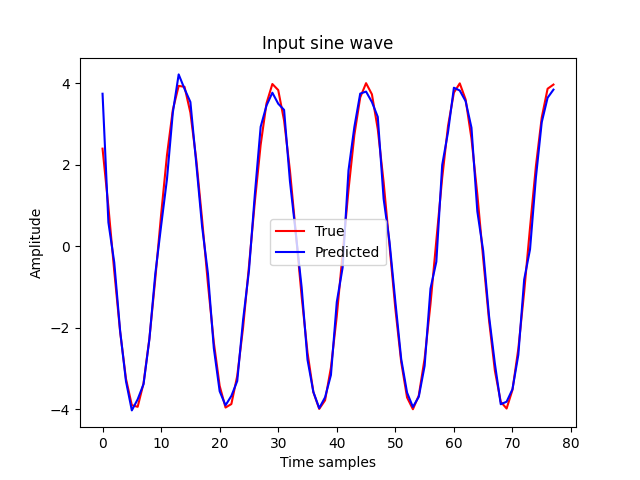
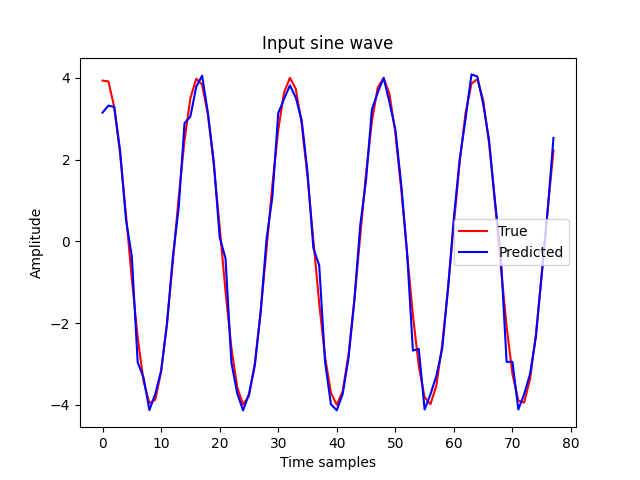
final commits

diff --git a/src/network.py b/src/network.py
@@ -103,7 +103,7 @@ def update_model_weights(cfg, model, weight_updates):
     else:
         raise NotImplementedError
     
-def get_gradients(cfg, model, data, loss, loss_fn = utils.mse_loss):
+def get_gradients(cfg, model, data, loss, predictions, loss_fn = utils.mse_loss):
     """Compute the gradients of the model. Returns a ditcionary containing the gradients."""
     if cfg['training']['gradient_computation'] == 'wp':
         #implement weight perturbation
@@ -120,9 +120,9 @@ def get_gradients(cfg, model, data, loss, loss_fn = utils.mse_loss):
                 set_weights(cfg, model_perturbed, weights)
                 #n print(key, index, np.sum(get_weights(cfg, model_perturbed)[key] - unperturbed_weights[key]))
                 #perform the forward propagation step
-                y_perturbed = model_perturbed.forward(data[:,:,3:5])
+                y_perturbed = model_perturbed.forward(data)
                 #compute the loss
-                loss_perturbed = loss_fn(y_perturbed[:, :-1, :], data[:, 1:, 7:]*1000) #! utils.mse_loss_seq(y_perturbed, data, batch_norm=True)
+                loss_perturbed = utils.mse_loss_seq(y_perturbed, data, batch_norm=True)
                 #compute the gradient
                 gradient_dict[key][index] = (loss_perturbed - loss) / cfg['training']['perturbation']
                 #after the gradient is computed, reset the weights to the original weights
@@ -135,37 +135,41 @@ def get_gradients(cfg, model, data, loss, loss_fn = utils.mse_loss):
     elif cfg['training']['gradient_computation'] == 'bptt':
         #implement backpropagation through time
         num_time_steps = data.shape[1]
-        gradients = {
-            'dWxh': np.zeros_like(model.Wxh),
-            'dWhh': np.zeros_like(model.Whh),
-            'dWhy': np.zeros_like(model.Why),
-            'dbh': np.zeros_like(model.bh),
-            'dby': np.zeros_like(model.by),
+        # Initialize gradients
+        dL_dWhy = np.zeros_like(model.Why)
+        dL_dby = np.zeros_like(model.by)
+        dL_dWxh = np.zeros_like(model.Wxh)
+        dL_dWhh = np.zeros_like(model.Whh)
+        dL_dbh = np.zeros_like(model.bh)
+        dL_dy = (2/data.shape[0]) * (predictions[:, 1:-1, :] - data[:, 2:, :])
+        
+        # Initialize gradient for hidden state
+        dL_dh_next = np.zeros((dL_dy.shape[0], model.hidden_nodes))
+        
+        # Backpropagate through time
+        for t in reversed(range(1, num_time_steps - 1)):  # Start from 1, not 2.
+            dy = dL_dy[:, t-1, :]
+            dL_dh = np.dot(dy, model.Why.T) + dL_dh_next
+            
+            dh_raw = (1 - model.hidden_states[:, t, :]**2) * dL_dh
+            
+            dL_dWhy += np.dot(model.hidden_states[:, t, :].T, dy)
+            dL_dby += dy.sum(axis=0, keepdims=True)
+            dL_dWxh += np.dot(data[:, t-1, :].T, dh_raw)  # Use t-1 as input for time step t.
+            dL_dWhh += np.dot(model.hidden_states[:, t-1, :].T, dh_raw)
+            dL_dbh += dh_raw.sum(axis=0, keepdims=True)
+            
+            dL_dh_next = np.dot(dh_raw, model.Whh)
+        
+        # Pack gradients into a dictionary
+        gradient_dict = {
+            'Why': dL_dWhy,
+            'by': dL_dby,
+            'Wxh': dL_dWxh,
+            'Whh': dL_dWhh,
+            'bh': dL_dbh,
         }
-
-        # Initialize gradient for the hidden state at the last time step
-        dh_next = np.zeros_like(model.hidden_states[:, 0, :])
-
-        # Loop through time steps in reverse order
-        for t in reversed(range(num_time_steps)):
-            # Compute the gradient of the loss with respect to predictions dy
-            dy = model.y[:, t, :] - data[:, t, 7:]
-            
-            # Backpropagate through the output layer
-            gradients['dWhy'] += np.dot(dy.T, model.hidden_states[:, t, :])
-            gradients['dby'] += np.sum(dy, axis=0, keepdims=True)
-            
-            # Backpropagate through the hidden layer
-            dh = np.dot(dy, model.Why.T) + dh_next
-            dhraw = (1 - model.hidden_states[:, t, :]**2) * dh
-            
-            # Accumulate gradients for weights
-            gradients['dWxh'] += np.dot(dhraw.T, data[:, t, 3:5])
-            gradients['dWhh'] += np.dot(dhraw.T, model.hidden_states[:, t - 1, :])
-            gradients['dbh'] += np.sum(dhraw, axis=0, keepdims=True)
-            
-            # Update dh_next for the next time step
-            dh_next = np.dot(dhraw, model.Whh.T)
+    
         return gradient_dict
     else:
         raise NotImplementedError
@@ -251,7 +255,7 @@ def train(cfg, model, data, lr_schedule, logger, dataloader = None, wand = None)
         else:
             output = model.forward(data['train']) # perform the forward propagation step
             train_loss = utils.mse_loss_seq(output, data['train'], batch_norm=True)
-            gradients = get_gradients(cfg, model, data['train'], train_loss) # compute the gradients
+            gradients = get_gradients(cfg, model, data['train'], train_loss, output) # compute the gradients
         # if learning_rate == 'auto':
         #     weight_updates = get_weight_updates(cfg, gradients, lr_schedule(iter)) # get the actual updates from the gradients
         # else:

diff --git a/src/main.py b/src/main.py
@@ -8,7 +8,7 @@ import network
 import logger
 from optimizer import adam, rmsprop
 from modules import fsm
-from network import LearnerRateScheduler
+from utils import LearnerRateScheduler
 from config import cfg
 
 
@@ -30,9 +30,9 @@ plt.grid(True)
 plt.savefig('src\\experiment1\\output\\figures\\learning_rate_schedule.png')
 plt.show()
 
-sine = sine_wave.SineWaveLoader(n_samples=100, time_stamps=80, amplitude=4.0, frequency=20.0)
+sine = sine_wave.SineWaveLoader(n_samples=300, time_stamps=80, amplitude=4.0, frequency=20.0)
 sine.load_data(attention = 0) # sine_wave_dict is of the size (train, test, val) x (n_samples, n_timesteps, n_features)
-sine.add_noise(noise_level=0.03) # augment the sine wave with noise
+sine.add_noise(noise_level=0.5) # augment the sine wave with noise
 sine_wave_dict = sine.get_data() # get the final processed data
 plt.plot(sine_wave_dict['data']['train'][1, :, -1], 'r', label = "True sine wave")
 # plt.plot(sine_wave_dict['aug']['train'][1, :, 0], 'b', label = "Augmented Sine Wave with noise level {}".format(sine.augmentation_level))
@@ -69,15 +69,15 @@ plt.savefig('./src/experiment1/output/figures/gen_seq_with_input_full_seq_{}.png
 plt.show()
 
 
-fsm_model = fsm.FSM(rnn_model)
-generated_sequence = fsm_model(sine_wave_dict['data']['test'][:, 0:1, :], time = 100)
+# fsm_model = fsm.FSM(rnn_model)
+# generated_sequence = fsm_model(sine_wave_dict['data']['test'][:, 0:1, :], time = 100)
 
-plt.figure()
-plt.plot(sine_wave_dict['data']['test'][0, :, -1], 'r', label = "True")
-plt.plot([generated_sequence[0, i, 0] for i in range(fsm_model.time)], 'b', label = "gen")
-plt.legend()
-plt.title("Predicted sine wave")
-plt.xlabel("Time samples")
-plt.ylabel("Amplitude")
-plt.savefig('src\\experiment1\\output\\figures\\gen_seq_with_input_first_point_{}.png'.format(rnn_model.seed))
-plt.show()
+# plt.figure()
+# plt.plot(sine_wave_dict['data']['test'][0, :, -1], 'r', label = "True")
+# plt.plot([generated_sequence[0, i, 0] for i in range(fsm_model.time)], 'b', label = "gen")
+# plt.legend()
+# plt.title("Predicted sine wave")
+# plt.xlabel("Time samples")
+# plt.ylabel("Amplitude")
+# plt.savefig('src\\experiment1\\output\\figures\\gen_seq_with_input_first_point_{}.png'.format(rnn_model.seed))
+# plt.show()

diff --git a/src/data/sine_wave.py b/src/data/sine_wave.py
@@ -78,6 +78,52 @@ class SineWaveLoader:
 
 
 
+
+
+
+class SineWaveDatasetV2():
+    def __init__(self, num_samples= 10, seq_length = 1000, num_periods = 1, frequency_range=2, noise_std=0.01, seed=42):
+        self.num_samples = num_samples
+        self.seq_length = seq_length
+        self.num_periods = num_periods
+        self.frequency_range = frequency_range
+        self.noise_std = noise_std
+        self.seed = seed
+        self.data = {}
+        self.data['data'], self.labels = self._generate_data()
+
+    def _generate_data(self):
+        np.random.seed(self.seed)
+        data = []
+        labels = []
+
+        for _ in range(self.num_samples):
+            phase = np.random.uniform(0, 2 * np.pi)
+            x = np.linspace(phase, self.num_periods * 2 * np.pi + phase, self.seq_length)
+            sine_wave = np.sin(self.frequency_range * x)
+            noisy_wave = sine_wave + np.random.normal(0, self.noise_std, self.seq_length)
+
+            data.append([[noisy_wave[i], (self.frequency_range * x[i]) % (2 * np.pi)] for i in range(self.seq_length)])
+            labels.append([[noisy_wave[i], (self.frequency_range * x[i]) % (2 * np.pi)] for i in range(self.seq_length)]) # Save the phase as labels
+
+        data = np.array(data)
+        labels = np.array(labels)
+        
+        random_perm = np.random.permutation(self.num_samples)
+        train_data = data[random_perm[:int(0.6 * self.num_samples)], :, :]
+        val_data = data[random_perm[int(0.6 * self.num_samples) : int(0.8 * self.num_samples)], :, :]
+        test_data = data[random_perm[int(0.8 * self.num_samples) :], :, :]
+        sine_data_dict = {'train' : train_data, 'val' : val_data, 'test' : test_data}
+
+        return sine_data_dict, labels
+
+    def __len__(self):
+        return self.num_samples
+
+    def __getitem__(self, idx):
+        return self.data['data']['train'][idx], self.labels[idx]
+
+
 # sine_class = SineWaveLoader(60, 100, amplitude=10.0, frequency=10.0)
 # sine_class.load_data(10)
 # import matplotlib.pyplot as plt

diff --git a/src/test.py b/src/test.py
@@ -16,21 +16,22 @@ from data.chemotaxi import ChemotaxisDataLoader
 from data.data import DataLoader
 from utils import plot_losses_from_files, ReduceLROnPlateau, LearnerRateScheduler
 
-class DirectoryExistsWarning(Warning):
-    pass
+# class DirectoryExistsWarning(Warning):
+#     pass
 
-dataset = ChemotaxisDataLoader()
+# dataset = ChemotaxisDataLoader()
 
-plt.figure()
-ind = 1
-plt.subplot(121)
-plt.scatter(dataset.dataset['train'][ind, :, 1], dataset.dataset['train'][ind, :, 2], marker = '.', color = 'r', label = "True")
-plt.title("True Location") 
-plt.xlabel("x")
-plt.ylabel("y")
-plt.subplot(122)
-plt.scatter(dataset.dataset['train'][ind, :, 6], dataset.dataset['train'][ind, :, 7], marker = '.', color = 'r', label = "True")
-plt.title("True Updates") 
-plt.xlabel("dx")
-plt.ylabel("dy")
-plt.show()
+# plt.figure()
+# ind = 1
+# plt.subplot(121)
+# plt.scatter(dataset.dataset['train'][ind, :, 1], dataset.dataset['train'][ind, :, 2], marker = '.', color = 'r', label = "True")
+# plt.title("True Location") 
+# plt.xlabel("x")
+# plt.ylabel("y")
+# plt.subplot(122)
+# plt.scatter(dataset.dataset['train'][ind, :, 6], dataset.dataset['train'][ind, :, 7], marker = '.', color = 'r', label = "True")
+# plt.title("True Updates") 
+# plt.xlabel("dx")
+# plt.ylabel("dy")
+# plt.show()
+plot_losses_from_files(['src\log.txt', 'src\log_bp.txt'], error_bar = False, shaded_error = False, show_plot = True, save_path = 'src\\experiment1\\output\\figures\\losses.png')

diff --git a/src/utils.py b/src/utils.py
@@ -163,11 +163,12 @@ def plot_losses_from_files(file_paths, error_bar = False, shaded_error = True, s
 
     plt.figure(figsize=(10, 6))
 
-    # # Plot individual training and validation losses from each run
-    # for i, file_path in enumerate(file_paths):
-    #     plt.plot(all_epochs, all_train_losses[i], alpha=0.7, label=f'{file_path} - Train Loss', marker='o')
-    #     plt.plot(all_epochs, all_val_losses[i], alpha=0.7, label=f'{file_path} - Val Loss', marker='o')
-
+    # Plot individual training and validation losses from each run
+    for i, file_path in enumerate(file_paths):
+        # plt.plot(all_epochs, all_train_losses[i], alpha=0.7, label=f'{file_path} - Train Loss', marker='o')
+        plt.plot(all_epochs, all_val_losses[i], alpha=0.7, label=f'{file_path} - Val Loss', marker='.')
+        plt.legend()
+    plt.show()
     if error_bar:
         # Plot average training and validation losses with error bars representing the standard deviation
         plt.errorbar(all_epochs, avg_train_losses, yerr=std_train_losses,

diff --git a/src/models/rnn_1hl.py b/src/models/rnn_1hl.py
@@ -59,4 +59,5 @@ class RNN:
             # self.h = self.dropout.forward(self.h, training = training)
             self.y[:, t, :] = np.dot(self.h, self.Why) + self.by #update the output state
         return self.y
+    
 
